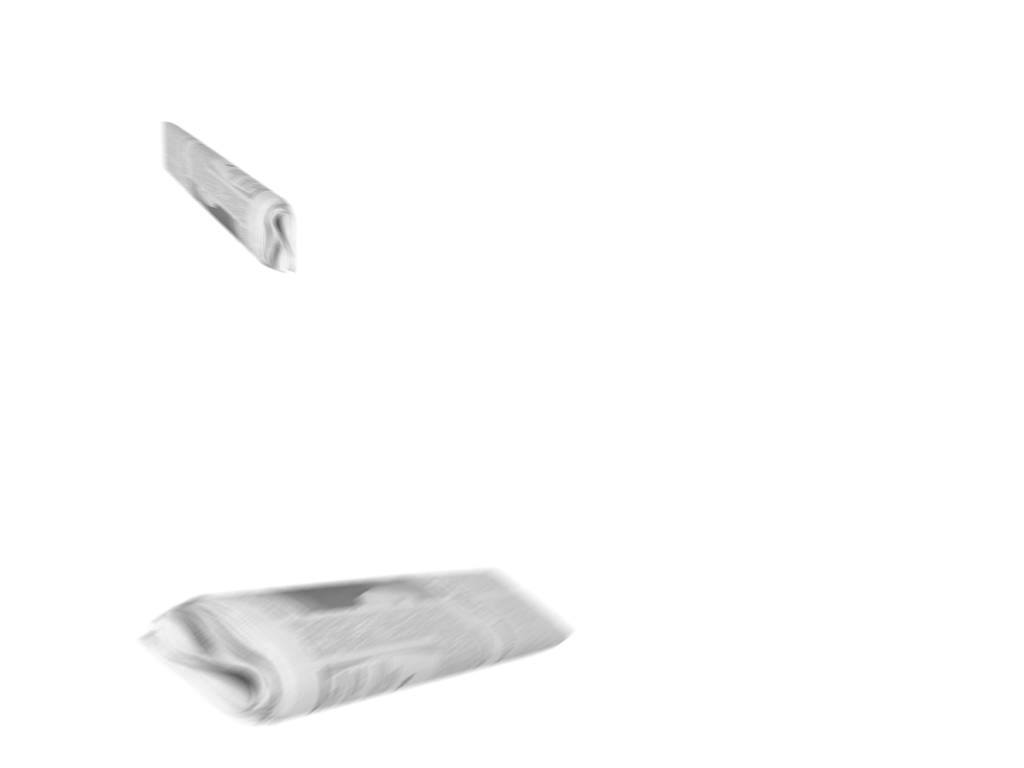
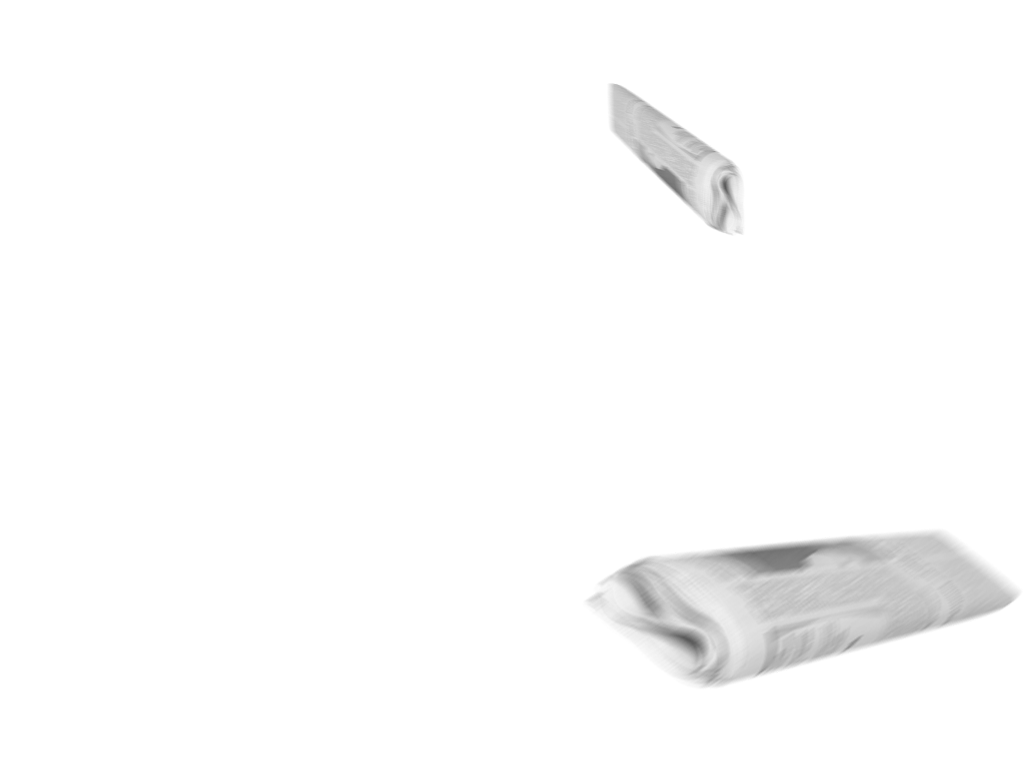
push it real good

Changed region(s): [[0.125, 0.6875, 1.0, 0.9688], [0.1562, 0.1562, 0.2812, 0.375], [0.5938, 0.0938, 0.7188, 0.3125]]

diff --git a/_js/script.js b/_js/script.js
@@ -122,8 +122,8 @@ function parseTexts(xml){
     		f2 = $(this).find('f2').text();
     	});
 
-    	htmlFolder += '<a class="fancybox" rel="gallery1" href="_images/folder/'+ f1 +'" title=""><img src="_images/folder/'+ t1 +'" alt="" /></a>';
-    	htmlFolder +=	'<a class="fancybox" rel="gallery1" href="_images/folder/'+ f2 +'" title=""><img src="_images/folder/'+ t2 +'" alt="" /></a>';
+    	htmlFolder += '<a class="fancybox" rel="gallery1" href="_images/folder/'+ f1 +'" title="Brochure > Page 1"><img src="_images/folder/'+ t1 +'" alt="" /></a>';
+    	htmlFolder +=	'<a class="fancybox" rel="gallery1" href="_images/folder/'+ f2 +'" title="Brochure > Page 2"><img src="_images/folder/'+ t2 +'" alt="" /></a>';
     });
     
     //praktisch
@@ -168,7 +168,7 @@ $(function () {
 	$('#video').parallax("0", 600, 0.3, true);
 	$('.pavideo').parallax("20%", 6600, 0.4, true);
 	$('#nieuws').parallax("50%", 2750, 0.3, true);
-	$('.panieuws').parallax("270px", 7900, 0.4, true);
+	$('.panieuws').parallax("50%", 7900, 0.4, true);
 	
 	//hook fancybox
 	$(".various").fancybox({

diff --git a/_styles/style.css b/_styles/style.css
@@ -518,8 +518,8 @@ nav#gebouwnav ul li a{
 	pointer-events: none;
 }
 
-#awesome-o .story{
-	margin: 100px;
+#awesome-o h2{
+	padding-top: 100px;
 }
 
 #awesome-o #folder img:nth-child(1){

diff --git a/index.html b/index.html
@@ -214,6 +214,7 @@
 		</div> <!--#video-->
 		<div id="awesome-o">
 			<div class="story">
+				<div class="panieuws"></div>
 				<h2>Brochure</h2>
 				<div id="folder">
 				</div>
